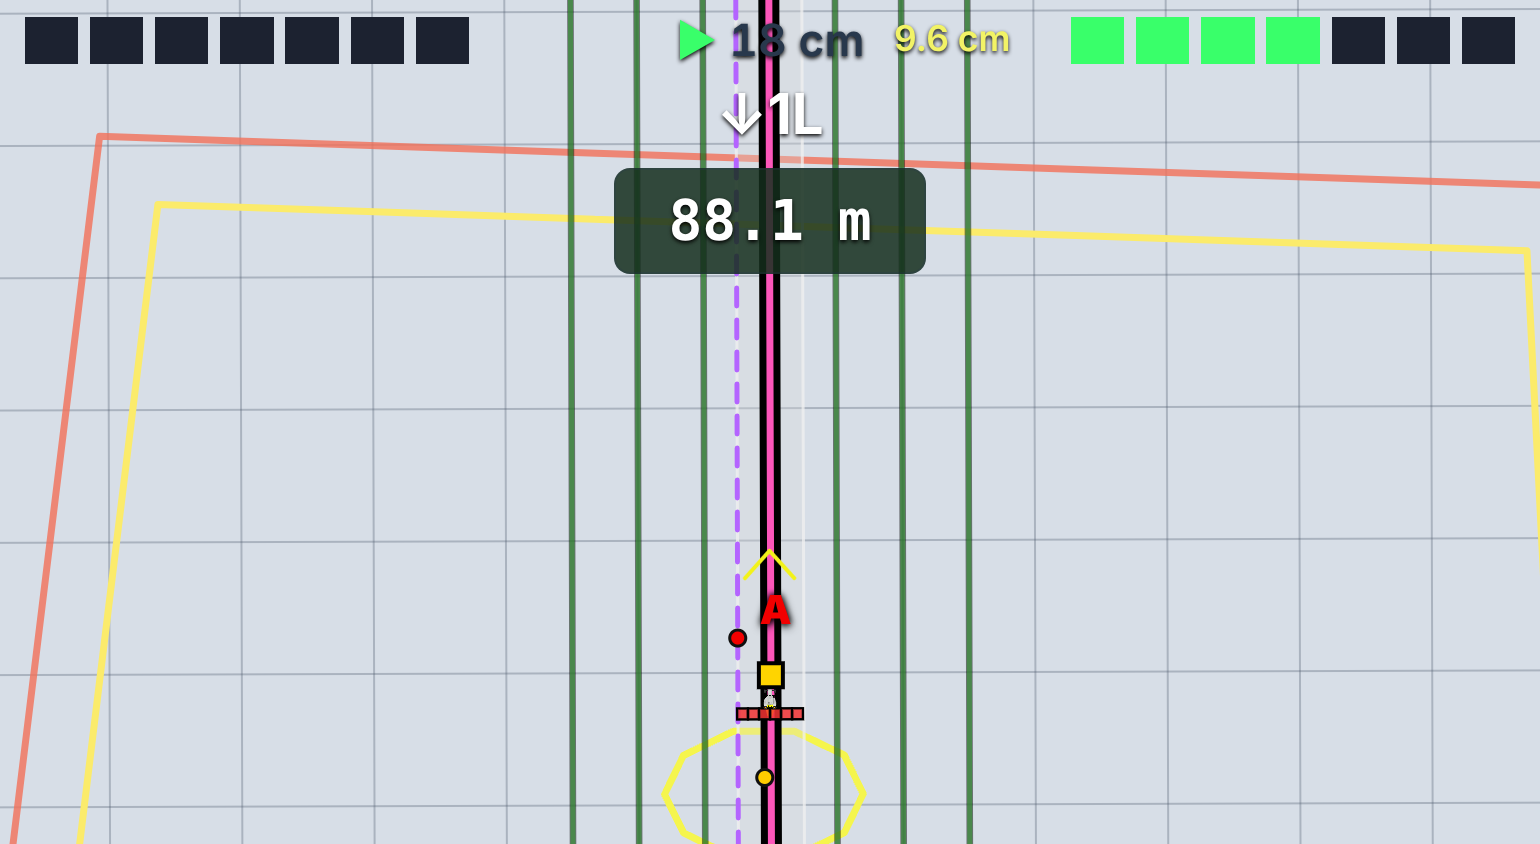
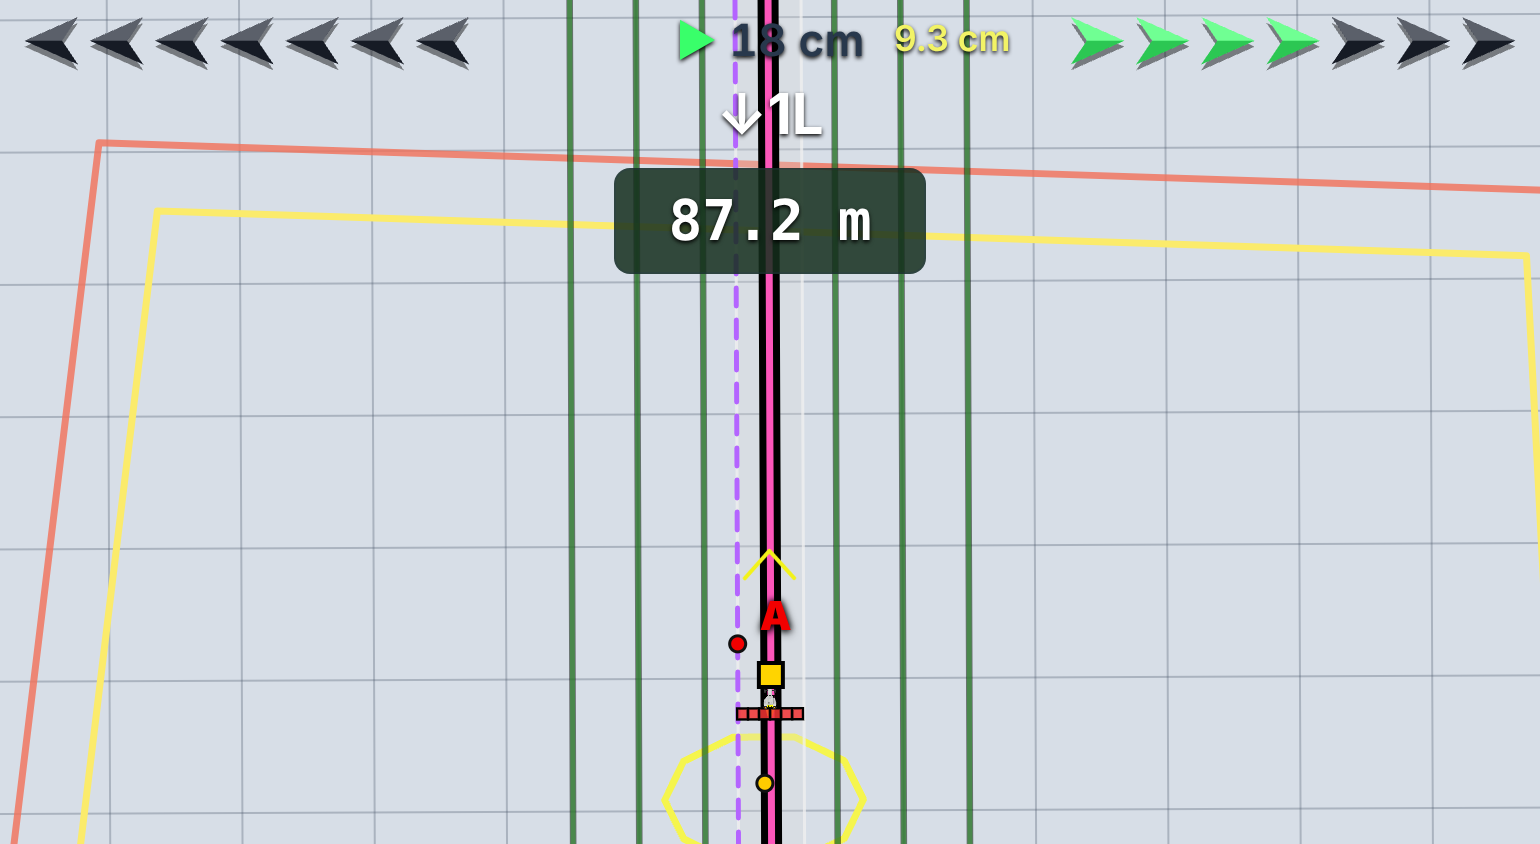
Software: follow the app's changes from 25 to 27 November
- Light bar: arrows instead of squares (app #952); new picture.
- U-turns: Skip worked tracks follows the skip rows (app #946).
- Recorded paths: the way there and the path are drawn (app #951);
  no new pick or recording while one plays; closing the field ends
  playback and drops an unsaved recording (app #956).
- Bug reports: Send Report only from an official build (app #955).

Claude-Session: https://claude.ai/code/session_01VKEBDGK2qbBj8d5yYfbi6V

diff --git a/src/content/docs/software/u-turns.md b/src/content/docs/software/u-turns.md
@@ -64,11 +64,11 @@ from 0 to 9. At 0 the turn lands on the pass beside the one you are on.
 
 **U-turn skip mode**:
 
-| Mode               | What the turns do                                                                                                                       |
-| ------------------ | --------------------------------------------------------------------------------------------------------------------------------------- |
-| Normal             | Every turn jumps the same number of passes                                                                                              |
-| Alternative        | The turns go out and back across the field, a long jump then one a pass shorter, so every turn is wide and every pass still gets worked |
-| Skip worked tracks | Each turn goes to the nearest pass not yet worked, in the order planned for the field                                                   |
+| Mode               | What the turns do                                                                                                                                                                                      |
+| ------------------ | ------------------------------------------------------------------------------------------------------------------------------------------------------------------------------------------------------ |
+| Normal             | Every turn jumps the same number of passes                                                                                                                                                             |
+| Alternative        | The turns go out and back across the field, a long jump then one a pass shorter, so every turn is wide and every pass still gets worked                                                                |
+| Skip worked tracks | Each turn goes to the next pass not yet worked, in an order planned from **U-turn skip rows**: every second pass at 0 or 1, every third at 2, and so on, working the passes in between on the way back |
 
 When no pass is left to work, a message near the bottom of the map says **End
 of field reached**.

diff --git a/src/content/docs/software/screen-and-alerts.md b/src/content/docs/software/screen-and-alerts.md
@@ -51,13 +51,13 @@ line, with a light bar or a steer bar.
 
 ![The light bar, the distance to the headland, three extra guides each side and the Svenn arrow](./img/light-bar.png)
 
-- **Light Bar**: seven squares each side of the distance. They light up on the
-  side to steer to: green to the right, orange to the left. Each square stands
-  for **cm per pixel** (5 cm to start with), so at 5 all seven are lit when you
-  are 35 cm or more off the line. The yellow figure beside the distance is how
+- **Light Bar**: seven arrows each side of the distance, pointing outwards.
+  They light up on the side to steer to: green to the right, orange to the
+  left. Each arrow stands for **cm per pixel** (5 cm to start with), so at 5
+  all seven are lit when you are 35 cm or more off the line. The yellow figure beside the distance is how
   far off you have been on average over the last few seconds. It shows while it
   is under 15 cm.
-- **Steer Bar**: in place of the squares, a yellow bar for how far the front
+- **Steer Bar**: in place of the arrows, a yellow bar for how far the front
   wheels are from the angle the guidance asks for, up to 12°. The arrows point
   the way to turn the steering wheel. Under AutoSteer, it is smaller and paler.
 - **On/Off**: shows or hides the bar, and the distance with it.

diff --git a/src/content/docs/software/more-field-tools.md b/src/content/docs/software/more-field-tools.md
@@ -73,12 +73,18 @@ yellow.
 
 AgOpenWeb plans a way from the tractor to the path, turning no tighter than
 the tool's U-turn radius, and AutoSteer follows it onto the path and along it.
+The map draws the way there, as it draws a U-turn, and the path being driven,
+whether or not recorded paths are shown in Tracks.
 You drive the speed. The **Auto sections** button is switched on and off as it
 was when you recorded. See [Section control](/software/section-control/#the-buttons).
 
 Playback stops at the end of the path, or when you tap **Stop** (the Play
 button while it plays). AutoSteer goes off when playback starts and when it
-stops.
+stops. While a path plays, you cannot pick another path or start a recording:
+tap **Stop** first.
+
+Closing the field ends it all: a playback stops, the path is put away, and a
+recording that was not saved is lost.
 
 The bin beside a saved path deletes it, after asking.
 

diff --git a/src/content/docs/software/charts-logs-bug-reports.md b/src/content/docs/software/charts-logs-bug-reports.md
@@ -85,6 +85,12 @@ for it on GitHub. It can be sent once:
 Until then, the line under **Send Report** says what is missing. You can write
 the title and description after **Create Bug Report**, before you send.
 
+**Send Report** works only from an official build: one downloaded from the
+AgOpenWeb releases page, or built from the official repository's `develop` or
+`main` without changes. Any other build, from someone else's copy of the code
+for example, gets **Not sent: This build is not known to the report service**.
+Then use **Download** below and share the zip yourself.
+
 **Add Screenshot or File** adds pictures or other files to the report: up to
 10, 20 MB each and 25 MB in all.
 

diff --git a/src/content/docs/software/screen-tour.md b/src/content/docs/software/screen-tour.md
@@ -101,8 +101,8 @@ On an observer's screen these are locked.
 
 With a guidance line active, three things appear under the status bar:
 
-- **The light bar**: rows of squares that light up to show how far off the
-  line you are, and to which side.
+- **The light bar**: rows of arrows that light up to show how far off the
+  line you are, and which way to steer.
 - **Distance from the line**, in centimetres, with a dot that is green when you
   are on it.
 - **The pass you are on**, such as `↑1L`: its number, and whether it lies to
